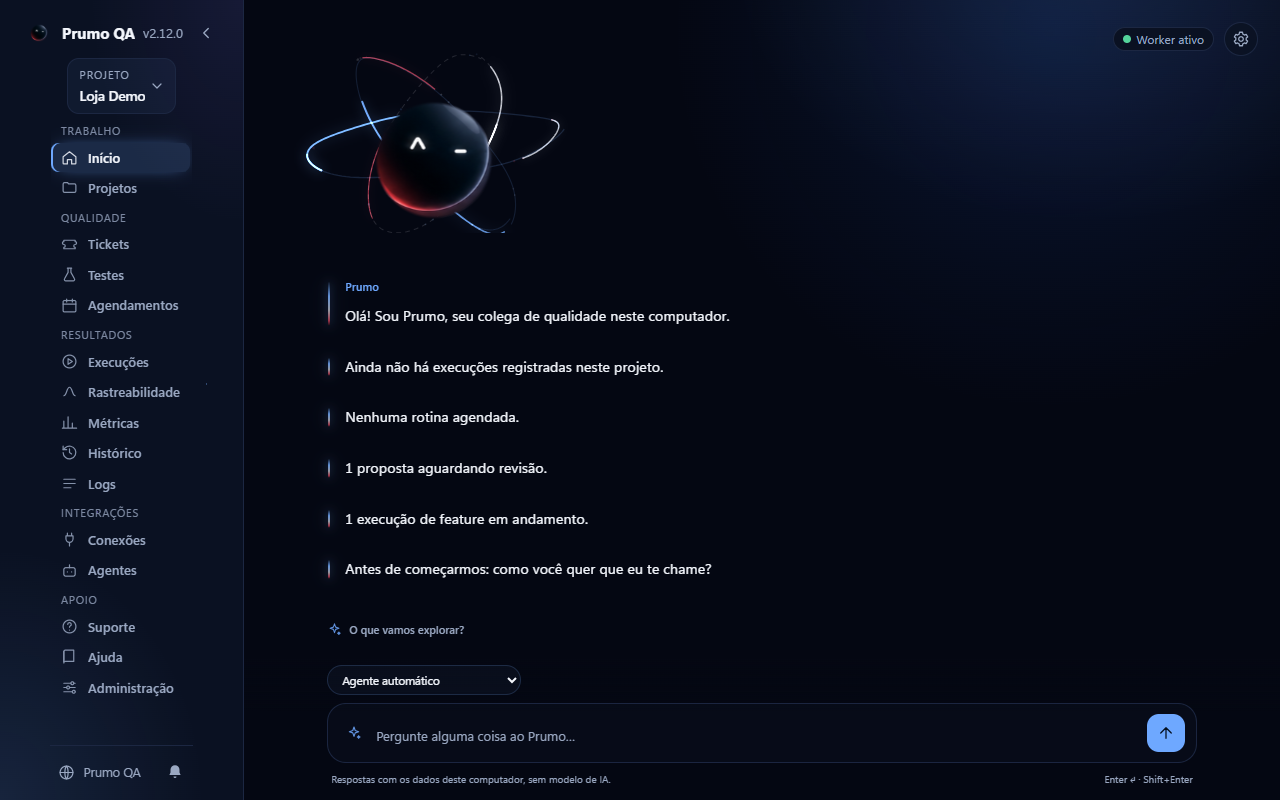
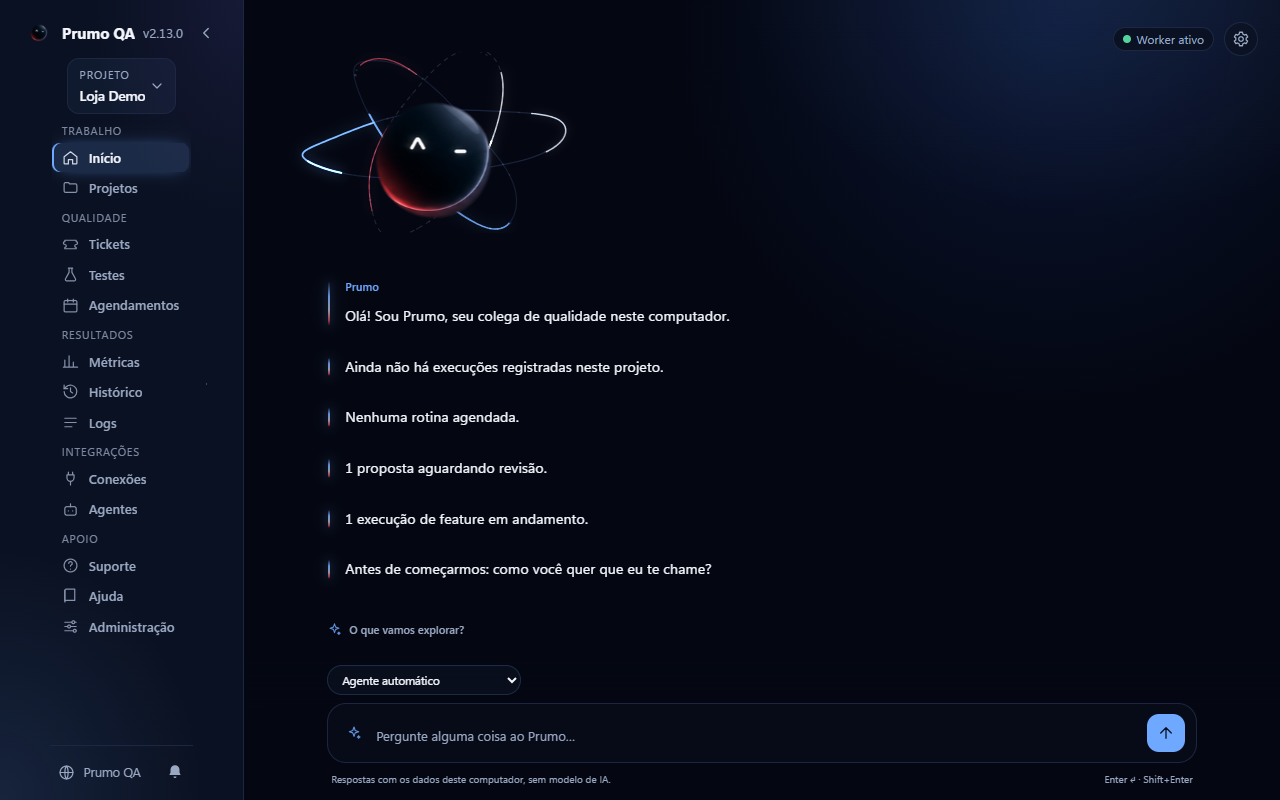
chore(2.13.0): versão, catálogo, site e capturas da nova tela de Testes

diff --git a/frontend/design-system/ds.css b/frontend/design-system/ds.css
@@ -429,3 +429,5 @@ main#conteudo:has(.ds-ide-cheio) { max-width: none; padding: 14px 18px 12px; }
 .cm-s-prumo .cm-number, .cm-s-prumo .cm-def, .cm-s-prumo .cm-tag, .cm-s-prumo .cm-qualifier { color: var(--aviso); }
 .cm-s-prumo .cm-property, .cm-s-prumo .cm-variable-2, .cm-s-prumo .cm-meta { color: var(--texto); }
 .cm-s-prumo .cm-error { color: var(--falha); }
+.ds-ide-aba button { white-space: nowrap; flex: none; }
+.ds-ide-aba .ds-sub { overflow: hidden; text-overflow: ellipsis; min-width: 0; }

diff --git a/README.md b/README.md
@@ -18,7 +18,7 @@ Procure pelo nome da tela que aparece no menu: a mesma pasta existe no frontend 
 
 Mapa completo: [Arquitetura modular por tela](docs/ARQUITETURA-MODULAR-ATUAL.md) · [índice do backend](backend/LEIA-ME.md) · [seleção de testes](docs/TESTES.md). `npm.cmd run check` confere dependências, tipos e a suíte inteira.
 
-Versão atual 2.12.0; releases publicadas em [github.com/AnaPLysyk/Prumo-Qa/releases](https://github.com/AnaPLysyk/Prumo-Qa/releases) (a 2.8.0 e a 2.7.0 não foram alteradas). [Agendamentos e worker](docs/AGENDAMENTOS.md) · [reaproveitamento](docs/historico/REAPROVEITAMENTO-2.8.md) · [baseline 2.8](docs/historico/BASELINE-2.8.md). [Documentação pública](https://prumo-qa-docs.onrender.com) · [baseline 2.7](docs/historico/BASELINE-2.7.md) · [contratos dos serviços](docs/SERVICOS.md). Instalador sem assinatura; publicação depende das verificações obrigatórias.
+Versão atual 2.13.0; releases publicadas em [github.com/AnaPLysyk/Prumo-Qa/releases](https://github.com/AnaPLysyk/Prumo-Qa/releases) (a 2.8.0 e a 2.7.0 não foram alteradas). [Agendamentos e worker](docs/AGENDAMENTOS.md) · [reaproveitamento](docs/historico/REAPROVEITAMENTO-2.8.md) · [baseline 2.8](docs/historico/BASELINE-2.8.md). [Documentação pública](https://prumo-qa-docs.onrender.com) · [baseline 2.7](docs/historico/BASELINE-2.7.md) · [contratos dos serviços](docs/SERVICOS.md). Instalador sem assinatura; publicação depende das verificações obrigatórias.
 
 ## Ciclo de qualidade e IA
 
